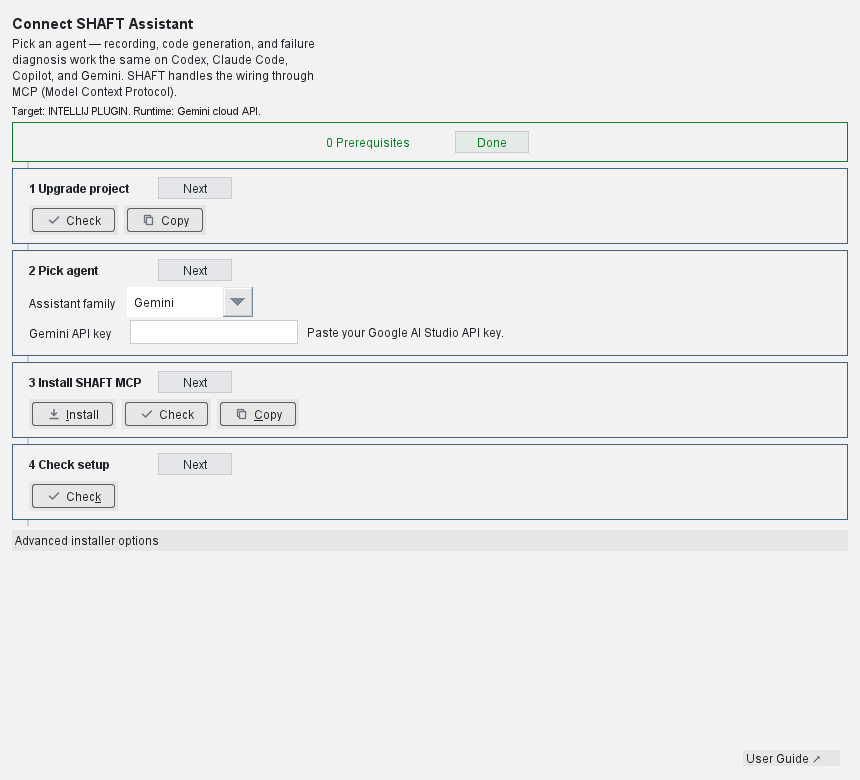
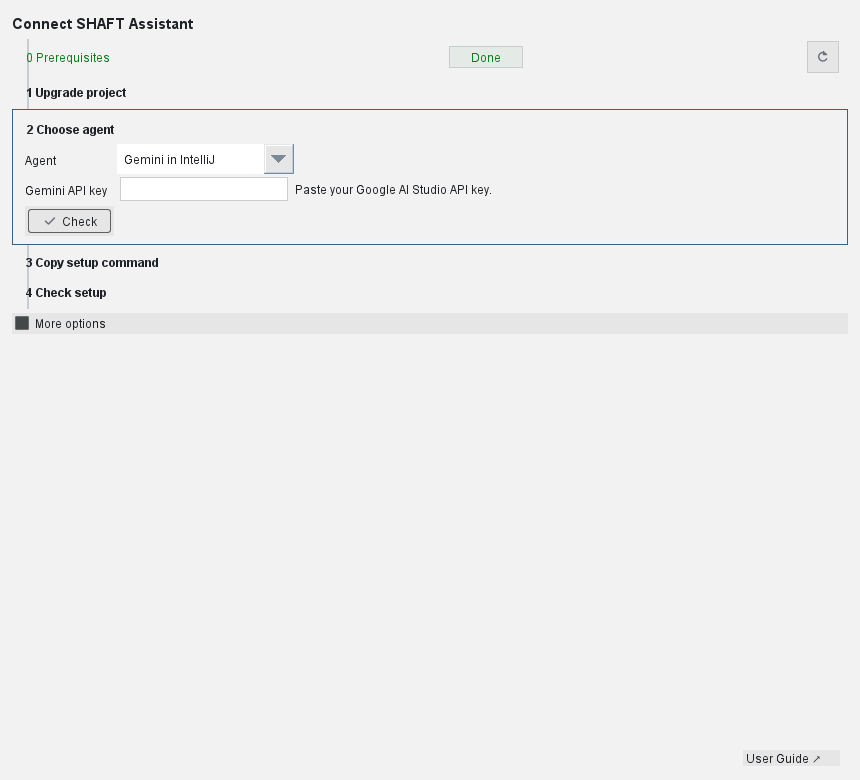
docs(intellij): align assistant setup and help (#927)

diff --git a/docs/agentic/intellij.md b/docs/agentic/intellij.md
@@ -28,10 +28,10 @@ support is available. First run shows a six-step setup inside the tool window:
 0. **Prerequisites** detects the tools the setup flow depends on — Python 3,
    Java, Maven, Node.js (only when the selected agent CLI is missing and needs
    npm), and the selected agent CLI itself. Every missing tool gets a
-   **Copy install command** button with a simple per-OS terminal command
+   **Copy** button with a simple per-OS terminal command
    (winget, Homebrew, or apt) so a fresh machine can be provisioned entirely
    from this screen; **Recheck** re-detects after you install something. A
-   **Copy SHAFT Engine warm-up command** button copies a Maven command that
+   **Copy** button copies a Maven command that
    pre-downloads SHAFT Engine and its dependencies into the local Maven
    repository so future projects skip re-downloading them; the command pins
    the latest released engine version (resolved live from Maven Central, with
@@ -44,18 +44,19 @@ support is available. First run shows a six-step setup inside the tool window:
    released engine version. A project already on the latest release — or on a
    newer local development build — shows **Done** immediately with nothing to
    do. Otherwise the step explains exactly what it found (current vs. latest
-   version, or that the project has no SHAFT dependency yet), **Copy command**
+   version, or that the project has no SHAFT dependency yet), **Copy**
    copies the upgrade command *and opens an IntelliJ terminal with it
    pre-typed* so you only press Enter, and **Check** re-runs the comparison
    after the upgrade finishes. See the [Upgrade guide](/docs/start/upgrade)
    for what that command does.
-2. **Pick agent** defaults to Codex CLI. Local Codex, Claude, and GitHub
-   Copilot families are joined by **Gemini**, a cloud route configured with a
-   Google AI Studio API key instead of a local runtime. The step shows
-   **Done** only when the selected agent is actually detected on this machine
-   (or, for Gemini, when a key is stored).
-3. **Install SHAFT MCP** copies the right installer command for the selected
-   agent and opens an IntelliJ terminal with the command pre-typed — press
+2. **Choose agent** defaults to Codex CLI. Choose one complete route: Codex CLI,
+   Claude Code, Claude Desktop, GitHub Copilot CLI, GitHub Copilot in IntelliJ,
+   or Gemini in IntelliJ. Gemini uses a Google AI Studio API key instead of a
+   local runtime. The step shows **Done** only when the plugin can verify the
+   selected route. External desktop and IDE runtimes stay unverified when the
+   plugin cannot observe their state.
+3. **Copy setup command** copies the right installer command for the selected
+   route and opens an IntelliJ terminal with the command pre-typed. Press
    Enter there to run it. The step shows **Done** only when an installed
    `shaft-mcp` is really found on disk, never just because a button was
    clicked.
@@ -66,7 +67,7 @@ support is available. First run shows a six-step setup inside the tool window:
    plugin update plus a `shaft-mcp` reinstall you get a real "your CLI can now
    use shaft-mcp" verdict. When the CLI sees `shaft-mcp` but cannot connect —
    typical when a CLI session that predates the reinstall is still running — a
-   **Copy restart command** button copies a terminal command that stops stale
+   **Copy** button copies a terminal command that stops stale
    CLI processes and re-verifies access. Success reveals **Start chatting**.
 
 Setup readiness has two lanes. The recorder, codegen, Doctor, and Healer only
@@ -100,12 +101,12 @@ Without a verified MCP command, the landing view keeps the click-through setup
 visible. Unverified settings stay behind the same setup gate until **Check setup**
 passes.
 
-![SHAFT IntelliJ Assistant setup wizard listing the Upgrade project, Pick agent, Install SHAFT MCP, and Check setup steps, each with Check and Copy buttons and Install SHAFT MCP also showing an Install button, targeting Codex CLI with Prerequisites already marked Done](/img/agentic/intellij-plugin-mcp-setup.png)
+![SHAFT IntelliJ Assistant setup wizard with Prerequisites marked Done, Choose agent expanded, Codex CLI selected, and Copy setup command before Check setup](/img/agentic/intellij-plugin-mcp-setup.png)
 
 Setup opens with a **Connect SHAFT Assistant** summary and a simple vertical
 stepper with visible state chips, only showing the buttons relevant to the
 current step, so the path reads as
-**Prerequisites -> Upgrade project -> Pick agent -> Install SHAFT MCP -> Check setup -> Start chatting**.
+**Prerequisites -> Upgrade project -> Choose agent -> Copy setup command -> Check setup -> Start chatting**.
 Every state chip reflects a real verification of what is on the machine or in
 the project — never a "you clicked the button" heuristic — and a check that
 ran and did not pass shows an explicit red **Failed** chip with recovery
@@ -113,17 +114,16 @@ guidance instead of silently staying neutral.
 The whole setup flow scrolls vertically when it outgrows the tool window (the
 scrollbar appears only when needed, and content re-wraps instead of scrolling
 sideways), so the bottom of the page always stays reachable.
-The setup summary shows the selected target, selected runtime, and detected
-recommended CLI agent -- internal installer-source/branch details are no
-longer surfaced here. The stdio command stays managed by
-SHAFT and is not shown as a setup input. An **Advanced installer options** toggle
-exposes the raw installer command and allows manual MCP target selection for
-non-standard installations. Test failures stay inline with categorized
+The setup summary shows the selected agent and detected recommendation. The
+agent choice owns the MCP installer target, so changing the route also changes
+the copied installer command and invalidates stale setup verification. Internal
+installer-source/branch details and the managed stdio command are not shown as
+setup inputs. Test failures stay inline with categorized
 troubleshooting, client-specific next steps, copyable diagnostic output,
 copyable SHAFT MCP docs link, and the retry action remains enabled.
 
-Selecting the **Gemini** family swaps the runtime selector for a
-**Gemini API key** field. Paste a Google AI Studio API key; **Check setup**
+Selecting **Gemini in IntelliJ** from **Agent** shows a **Gemini API key**
+field. Paste a Google AI Studio API key; **Check setup**
 stores it in IntelliJ Password Safe, saves the Cloud/Gemini Assistant route
 with a default model, and enables passing the stored key to the SHAFT MCP
 process. The installer target switches to `intellij-plugin` because Gemini
@@ -131,11 +131,11 @@ prompts run through SHAFT MCP provider chat instead of an external agent CLI.
 If no key is stored, **Check setup** fails inline with a reminder to paste the
 key and check again.
 
-![SHAFT IntelliJ Assistant setup wizard with Gemini selected as the assistant family, showing an empty Gemini API key field for pasting a Google AI Studio key, target INTELLIJ PLUGIN with Gemini cloud API runtime](/img/agentic/intellij-plugin-mcp-setup-gemini.png)
+![SHAFT IntelliJ Assistant setup wizard with Gemini in IntelliJ selected and an empty Gemini API key field for pasting a Google AI Studio key](/img/agentic/intellij-plugin-mcp-setup-gemini.png)
 
-![Completed SHAFT IntelliJ Assistant setup showing Runtime verified, every step marked Done, a Ready row confirming MCP connected, Workspace root OK, Agent ready, Ready to record, and a Start chatting button](/img/agentic/intellij-plugin-mcp-setup-success.png)
+![Completed SHAFT IntelliJ Assistant setup showing Codex CLI verified, Choose agent and Check setup marked Done, Copy setup command expanded, and a Ready row with Start chatting](/img/agentic/intellij-plugin-mcp-setup-success.png)
 
-![SHAFT IntelliJ Assistant setup in dark mode with Check setup marked Failed and an Assist Error message, showing the Test failed. Retry test. recovery text and Reinstall, Copy output, and Copy docs link buttons](/img/agentic/intellij-plugin-mcp-setup-error-dark.png)
+![SHAFT IntelliJ Assistant setup in dark mode with Check setup marked Failed and Copy actions for diagnostics and the SHAFT MCP docs link](/img/agentic/intellij-plugin-mcp-setup-error-dark.png)
 
 Troubleshooting details distinguish the failure type when the plugin can infer
 it:
@@ -594,6 +594,21 @@ The Assistant routes plain-language intent to the right MCP tools:
 | Failure analysis and healing | "Diagnose my last failed test run", "analyze target/allure-results" | `doctor_analyze_failed_allure` (optional `backend=playwright`), `doctor_suggest_fix`, `doctor_analyze_trace` |
 | Reuse planning and guide search | "plan a login test that reuses our page objects", "how do SHAFT locators work?" | `shaft_coding_partner_plan`, `shaft_guide_search`, `test_automation_scenarios`, `test_code_guardrails_check` |
 | Project upgrade | "Upgrade this project to the latest SHAFT" | `shaft_project_upgrade` preview + agent-performed upgrade |
+
+Type `/help` to list every registered Assistant command, SHAFT MCP tool, and
+`shaft-cli` command. Add a topic to filter across word and separator boundaries:
+
+```text
+/help browser navigate
+```
+
+`/commands`, `/mcp-help`, and `/shaft-help` are aliases for the same local
+catalog. Questions such as "What tools can you use?" also open it without
+calling the selected agent. When SHAFT MCP is connected, the MCP section comes
+from its live `tools/list` response, including valid empty catalogs and newly
+added server tools. If discovery is unavailable or malformed, the Assistant
+labels and shows its bundled MCP catalog instead. Cancelling help does not
+cancel another MCP tool call that shares the project connection.
 
 If MCP is not configured, the Assistant shows the SHAFT MCP setup prompt before
 it runs a feature request. Natural-language Ask/Plan prompts that need MCP tool
